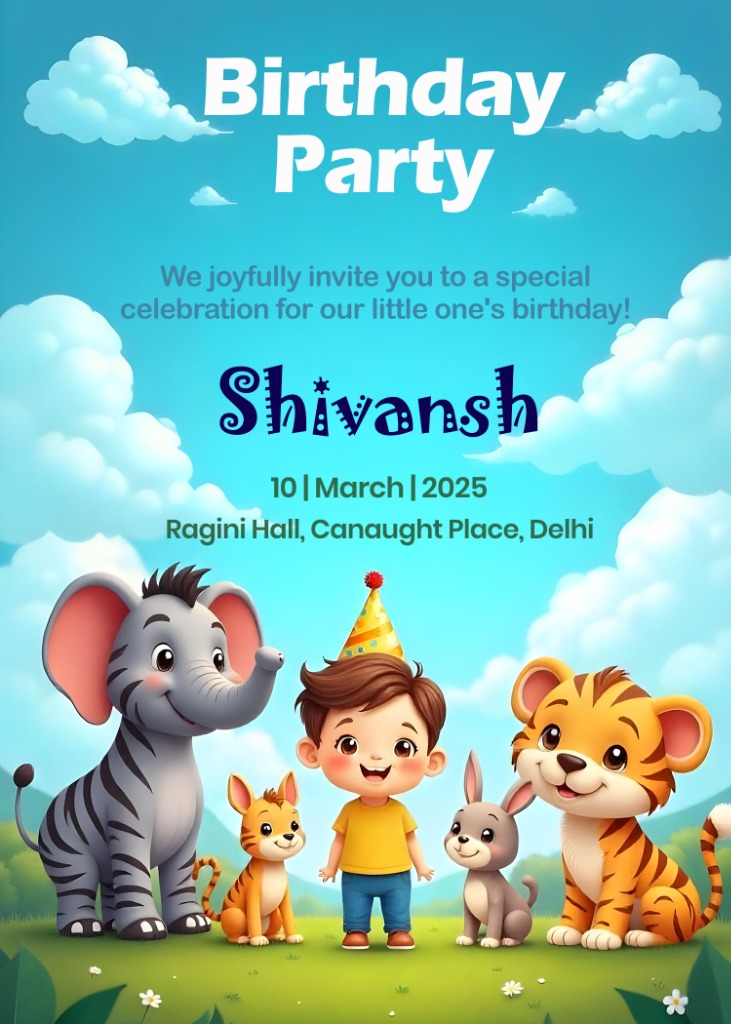
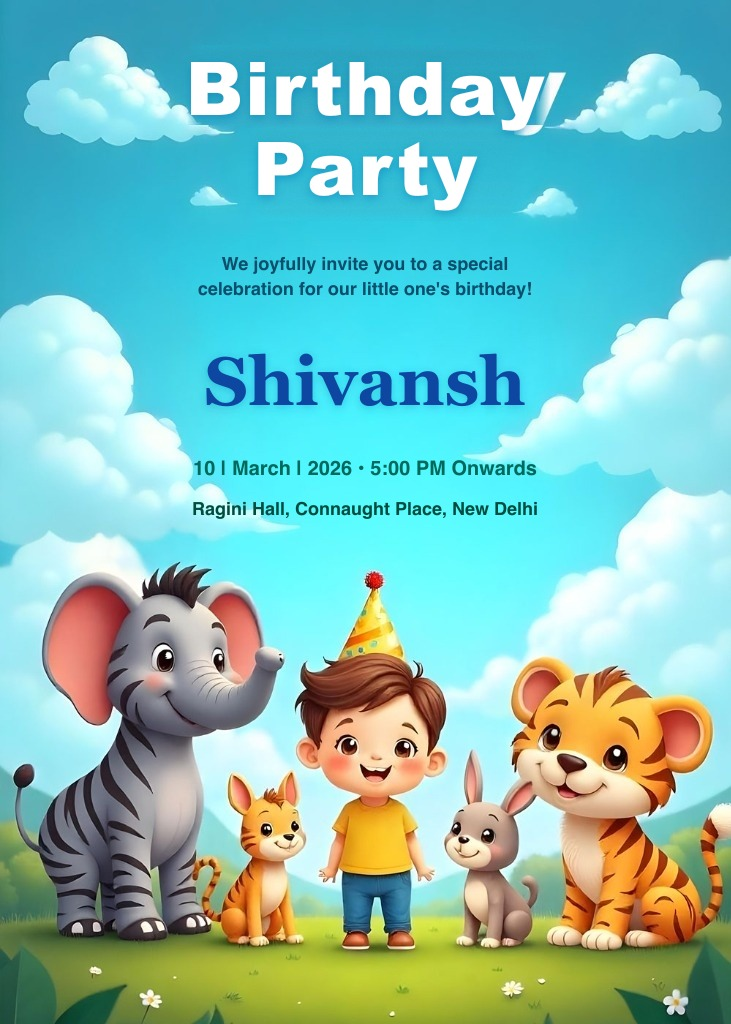
feat: cleanly inpaint sunny-safari background preserving cloud contours, make Birthday Party editable, and center all text layers

diff --git a/src/data/templates.ts b/src/data/templates.ts
@@ -1973,9 +1973,9 @@ export const SAMPLE_TEMPLATES: CardTemplate[] = [
         "shadowBlur": 10,
         "shadowOffsetX": 0,
         "shadowOffsetY": 3,
-        "x": 65,
+        "x": 0,
         "y": 60,
-        "width": 600,
+        "width": 731,
         "height": 160,
         "rotation": 0,
         "opacity": 1,
@@ -1995,9 +1995,9 @@ export const SAMPLE_TEMPLATES: CardTemplate[] = [
         "letterSpacing": 0.5,
         "lineHeight": 1.35,
         "textTransform": "none",
-        "x": 65,
+        "x": 0,
         "y": 255,
-        "width": 600,
+        "width": 731,
         "height": 55,
         "rotation": 0,
         "opacity": 1,
@@ -2021,9 +2021,9 @@ export const SAMPLE_TEMPLATES: CardTemplate[] = [
         "shadowBlur": 8,
         "shadowOffsetX": 0,
         "shadowOffsetY": 2,
-        "x": 65,
+        "x": 0,
         "y": 350,
-        "width": 600,
+        "width": 731,
         "height": 80,
         "rotation": 0,
         "opacity": 1,
@@ -2043,9 +2043,9 @@ export const SAMPLE_TEMPLATES: CardTemplate[] = [
         "letterSpacing": 0.8,
         "lineHeight": 1.2,
         "textTransform": "none",
-        "x": 65,
+        "x": 0,
         "y": 455,
-        "width": 600,
+        "width": 731,
         "height": 30,
         "rotation": 0,
         "opacity": 1,
@@ -2065,9 +2065,9 @@ export const SAMPLE_TEMPLATES: CardTemplate[] = [
         "letterSpacing": 0.4,
         "lineHeight": 1.3,
         "textTransform": "none",
-        "x": 65,
+        "x": 0,
         "y": 495,
-        "width": 600,
+        "width": 731,
         "height": 32,
         "rotation": 0,
         "opacity": 1,
